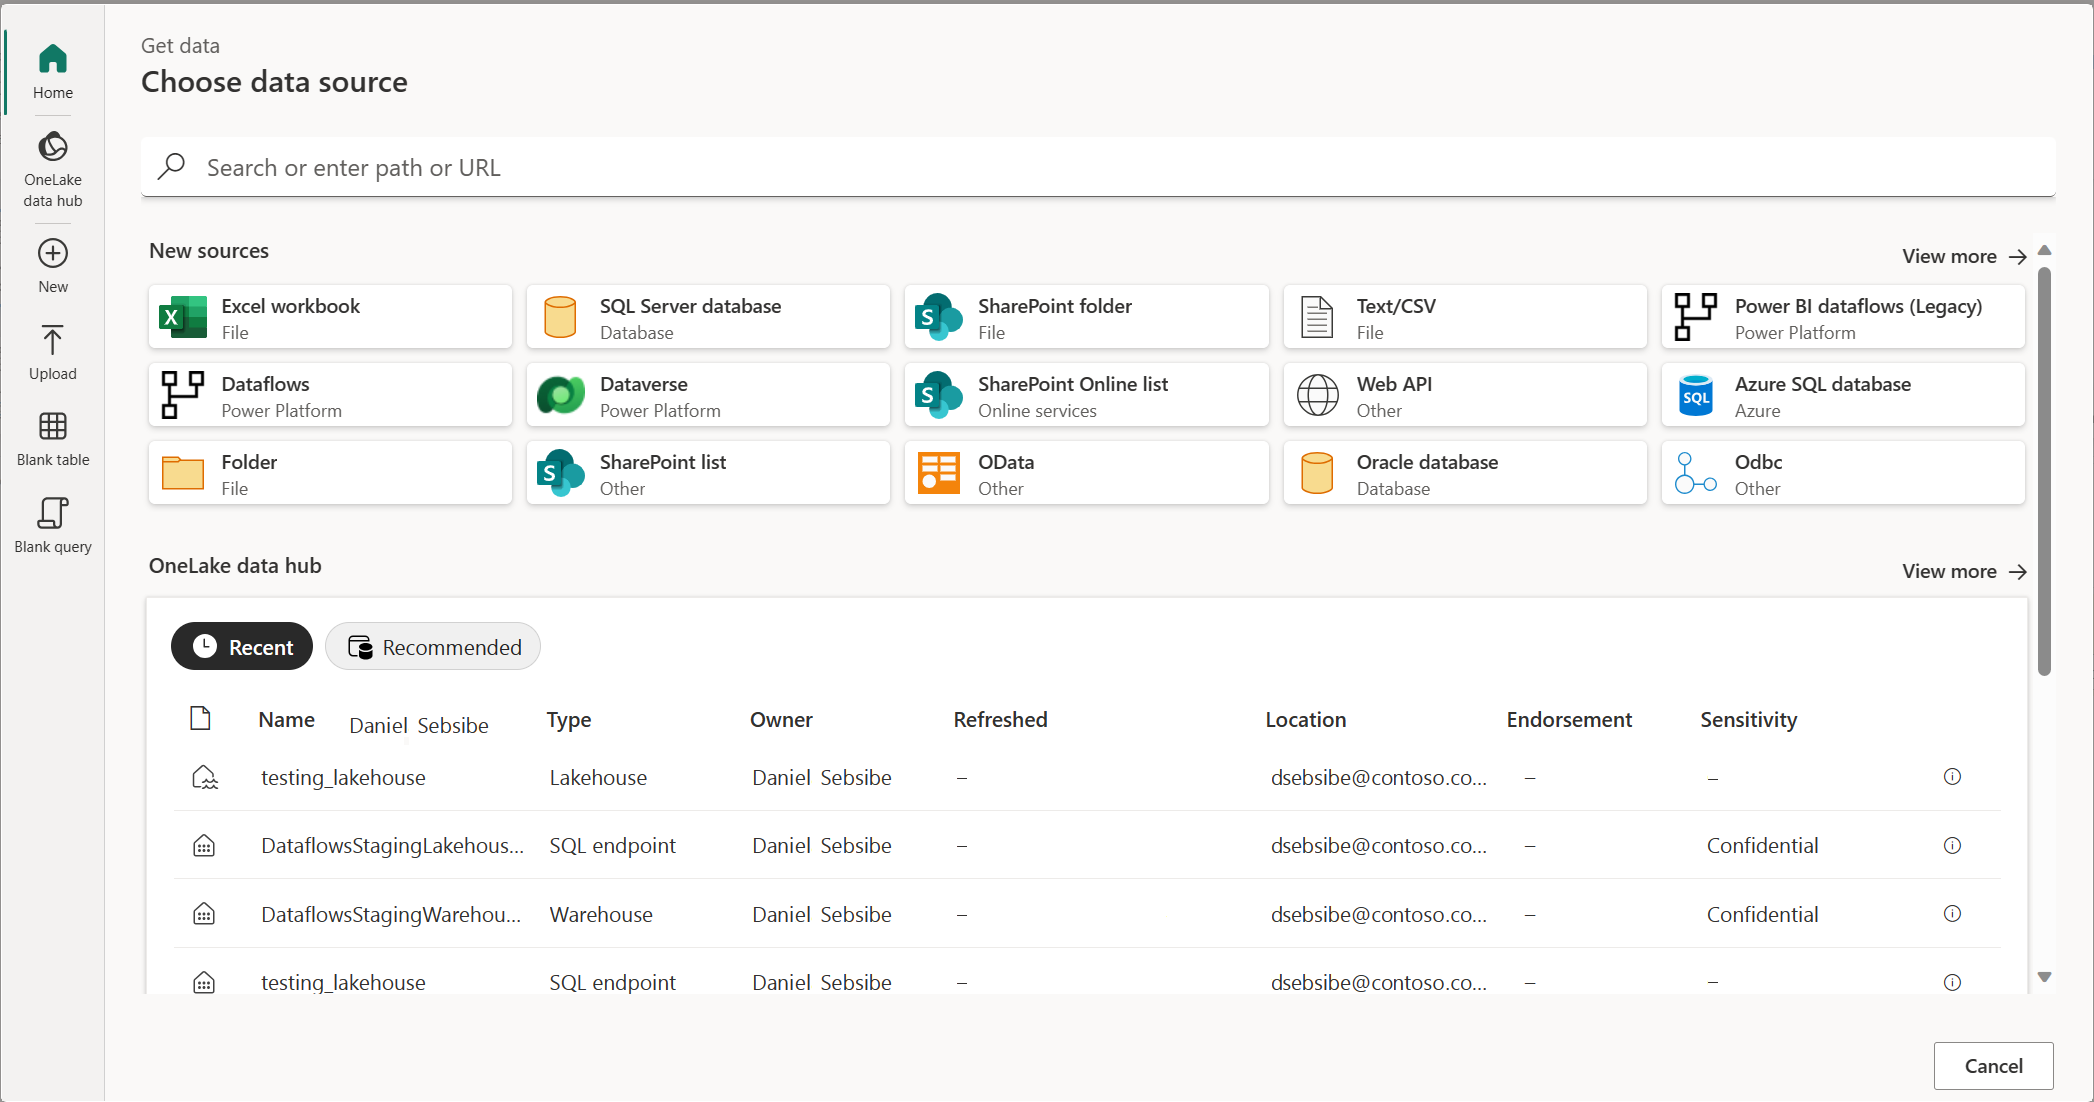
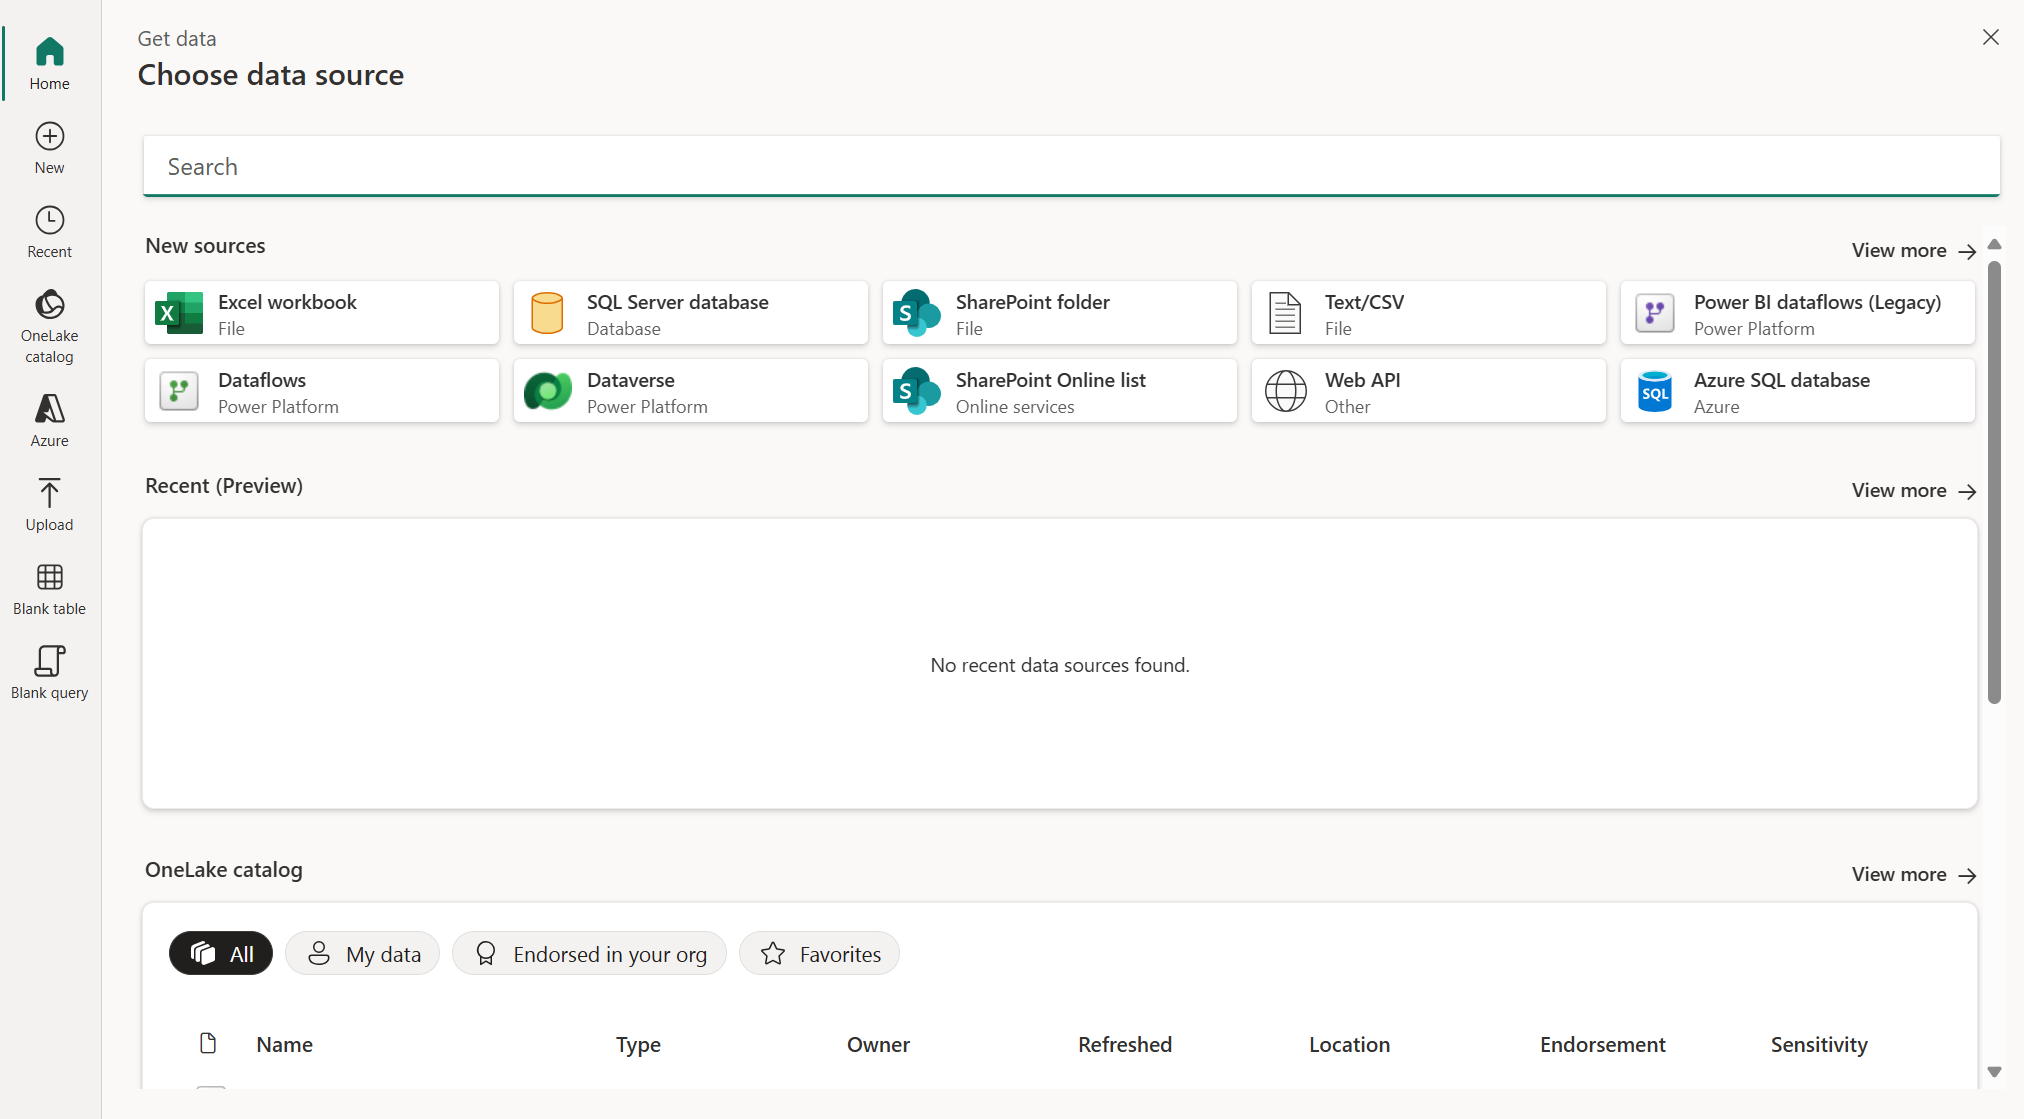
Updated list of Get data modules

diff --git a/powerquery-docs/get-data-ui.md b/powerquery-docs/get-data-ui.md
@@ -3,7 +3,7 @@ title: Get data UI
 description: Describes the new modern UI of the Power Query Online get data experience.
 author: TauseefSiddique
 ms.topic: conceptual
-ms.date: 3/8/2024
+ms.date: 7/17/2025
 ms.author: dougklo
 ms.subservice: get-data
 ---
@@ -26,16 +26,18 @@ The procedures for where to start getting data in Power BI Desktop are described
 The new modular experience in Power Query Online is separated into different modules located on the left side navigation bar. These modules include:
 
 * **Home** (all)
-* **Templates** (Power BI service only)
-* **OneLake Data Hub** (Fabric only)
 * **New** (all)
+* **Recent** (all)
+* **Templates** (Power BI service only)
+* **OneLake catalog** (Fabric only)
+* **Azure** (all)
 * **Upload** (all)
 * **Blank Table** (all)
 * **Blank Query** (all)
 
 ### Home
 
-The home page acts as a summary of all the modules and presents you with different options to expedite the process and get you closer to your data. Typically, this module contains any existing data sources and gives you the option to use a new data source, table, and upload files. From the home page, you can select **View more** on the right side of the **New sources** and **OneLake data hub** sections to visit those modules.
+The home page acts as a summary of all the modules and presents you with different options to expedite the process and get you closer to your data. Typically, this module contains any existing data sources and gives you the option to use a new data source, table, and upload files. From the home page, you can select **View more** on the right side of the **New sources**, **Recent (Preview)**, and **OneLake catalog** sections to visit those modules.
 
 :::image type="content" source="media/get-data-ui/home.png" alt-text="Screenshot of the Choose data source page with the Home module on the right side emphasized." lightbox="media/get-data-ui/home.png":::
 
@@ -45,11 +47,11 @@ A dataflow template provides a predefined set of entities and field mappings to 
 
 :::image type="content" source="media/get-data-ui/templates.png" alt-text="Screenshot of the Templates page with the Templates module on the right side emphasized." lightbox="media/get-data-ui/templates.png":::
 
-### OneLake data hub
+### OneLake catalog
 
-The OneLake data hub makes it easy to find, explore, and use the Fabric data items in your organization that you have access to. It provides information about the items and entry points for working with them. For more information on the OneLake data hub, go to [OneLake Data Hub](/fabric/get-started/onelake-data-hub).
+The OneLake catalog makes it easy to find, explore, and use the Fabric data items in your organization that you have access to. It provides information about the items and entry points for working with them. For more information on the OneLake catalog, go to [OneLake catalog](/fabric/governance/onelake-catalog-overview).
 
-:::image type="content" source="media/get-data-ui/onelake.png" alt-text="Screenshot of the OneLake data hub module." lightbox="media/get-data-ui/onelake.png":::
+:::image type="content" source="media/get-data-ui/onelake.png" alt-text="Screenshot of the OneLake catalog module." lightbox="media/get-data-ui/onelake.png":::
 
 ### New
 
